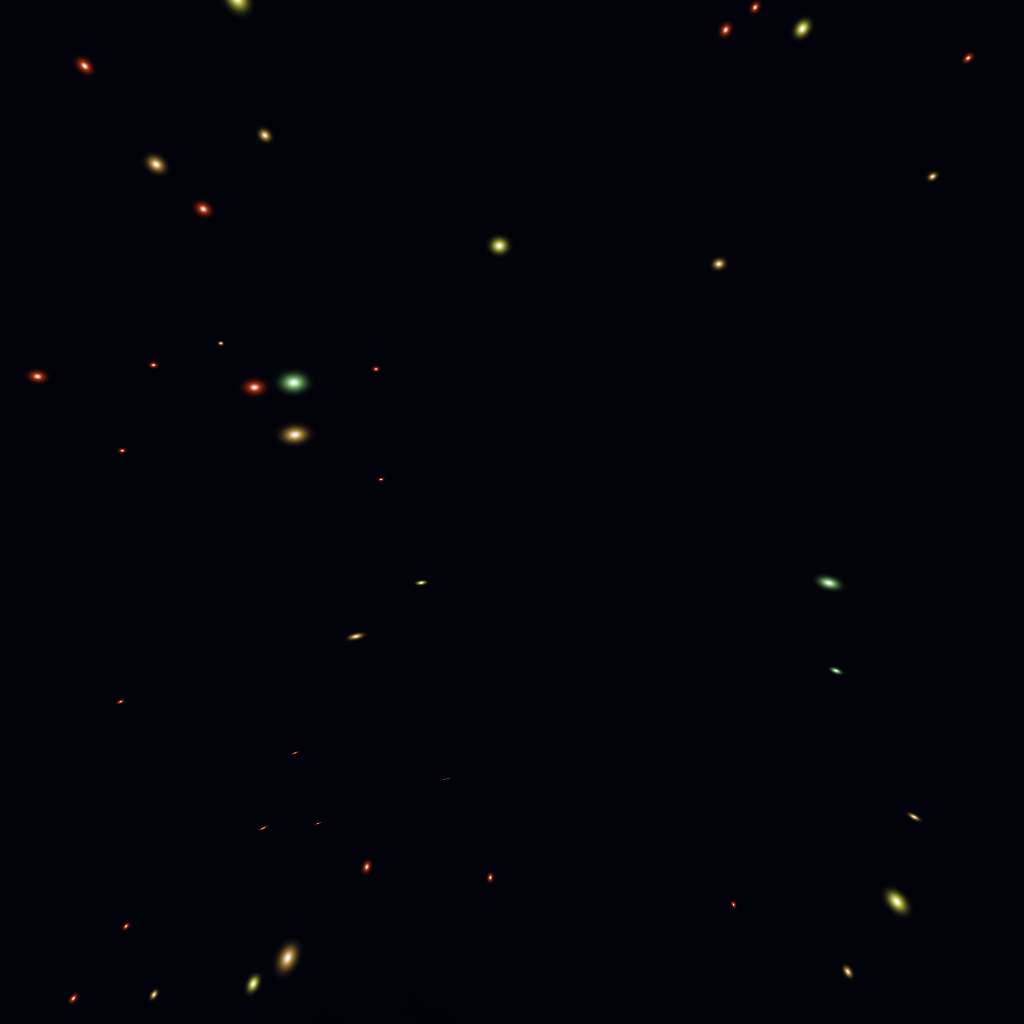
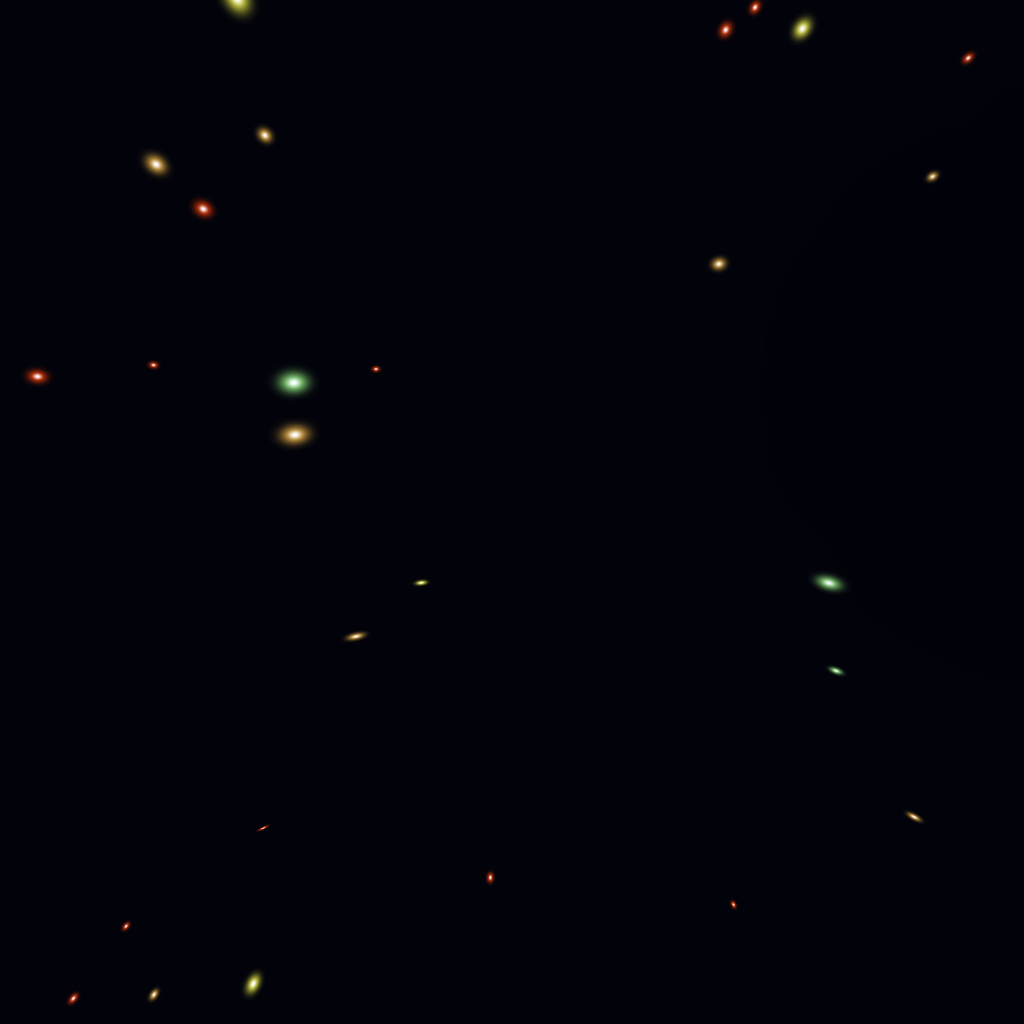
[fix] the baker now aims the billboards itself — elongated stars solved
Tonio: "I think you're pointing the stars at the galactic origin. That makes the
coreward render look pretty good but it's terrible for the others."

Exactly right, and the cause is that `facePoint` was correct and NOTHING CALLED
IT. The demo's bake button went straight to `bakeSkyboxCube`, which left every
particle system billboarding per face — so the only times it had ever run were
my own hand-typed evals. That is why my measurements kept saying "the quaternions
are set and they vary per particle" while the pictures said otherwise: I was
verifying a code path the product never executed.

The signature Tonio read off the image is the tell and worth remembering: left
to billboard, the face centred on the core looks nearly right and everything
further off-axis smears radially about the image centre, because origin-facing
and camera-facing agree in exactly one direction.

Fixed by moving the call inside `bakeSkyboxCube` — it now aims every
`<tosi-b3d-galaxy>` (or an explicit `subjects` list) at the camera position
before capture and restores in a `finally`. A guard that lives in documentation
is not a guard.

Also fixed a latent trap alongside it: `particle.position` is SPS-LOCAL while
the target handed in is WORLD. They coincide only while the galaxy sits
unrotated at the origin, so it was invisible and would have returned the moment
anyone tilted it. Converted once, up front.

Re-baked the shipped default at 1024 from 100k stars: round stars across the
[…]

diff --git a/src/skybox-baker.ts b/src/skybox-baker.ts
@@ -179,6 +179,16 @@ export interface SkyboxBakeOptions {
   size?: number
   /** Far plane for the capture. Must reach past whatever you are photographing. */
   maxZ?: number
+  /**
+   * Things that billboard and must be aimed at the camera POSITION before the
+   * capture — anything with a `facePoint(v)` method, which `b3d-galaxy` has.
+   *
+   * Defaults to every `<tosi-b3d-galaxy>` in the document, because forgetting
+   * this is not a small mistake: leave a subject billboarding and it re-orients
+   * to each face's view plane, so stars come out radially smeared and the faces
+   * disagree at their seams.
+   */
+  subjects?: Array<{ facePoint(t: BABYLON.Vector3 | null): void }>
 }
 
 /**
@@ -253,6 +263,26 @@ export async function bakeSkyboxCube(
   cam.minZ = 0.1
   cam.maxZ = (options.maxZ ?? 5000)
 
+  /*
+  AIM THE BILLBOARDS AT THE CAMERA — inside the baker, so it cannot be skipped.
+
+  `facePoint` existed for exactly this and NOTHING CALLED IT: the demo's bake
+  button went straight to this function, so every capture ran with the particle
+  systems still billboarding per face. Tonio, from the result: "I think you're
+  pointing the stars at the galactic origin. That makes the coreward render look
+  pretty good but it's terrible for the others" — which is the signature, since
+  a face centred on the core has its billboards nearly right and everything
+  further off-axis progressively worse.
+
+  A guard that lives in the documentation is not a guard. It belongs here.
+  */
+  const subjects =
+    options.subjects ??
+    (Array.from(
+      document.querySelectorAll('tosi-b3d-galaxy')
+    ) as unknown as Array<{ facePoint(t: BABYLON.Vector3 | null): void }>)
+  for (const s of subjects) s.facePoint?.(at)
+
   const previous = scene.activeCamera
   const out: BakedFace[] = []
   try {
@@ -289,6 +319,9 @@ export async function bakeSkyboxCube(
       out.push({ name: face.name, url })
     }
   } finally {
+    // Hand orientation back to the live camera, or the scene stays frozen
+    // facing a point the viewer has since left.
+    for (const s of subjects) s.facePoint?.(null)
     scene.activeCamera = previous
     cam.dispose()
   }

diff --git a/src/b3d-galaxy.ts b/src/b3d-galaxy.ts
@@ -469,8 +469,24 @@ export class B3dGalaxy extends B3dChild {
       */
       const upY = new BABYLON.Vector3(0, 1, 0)
       const upZ = new BABYLON.Vector3(0, 0, 1)
+      /*
+      THE TARGET MUST BE IN THE PARTICLES' OWN SPACE.
+
+      `particle.position` is SPS-LOCAL — relative to the system's mesh — while
+      the camera position handed in is WORLD. They coincide only while the
+      galaxy sits at the origin unrotated, which it usually does, so this was
+      invisible and would have come back the moment anyone moved or tilted it.
+      Converting once here costs nothing and removes the trap.
+      */
+      const mesh = sps.mesh
+      const local = target.clone()
+      if (mesh != null) {
+        mesh.computeWorldMatrix(true)
+        const inv = BABYLON.Matrix.Invert(mesh.getWorldMatrix())
+        BABYLON.Vector3.TransformCoordinatesToRef(target, inv, local)
+      }
       sps.updateParticle = (p) => {
-        const dir = target.subtract(p.position)
+        const dir = local.subtract(p.position)
         if (dir.lengthSquared() < 1e-8) return p
         dir.normalize()
         const ref = Math.abs(dir.y) > 0.98 ? upZ : upY

diff --git a/TODO.md b/TODO.md
@@ -777,7 +777,36 @@ auto` on flex children, stacking contexts. A tool must either implement CSS
 
 ## The queue
 
-[ ] ⚠ **OPEN BUG: baked stars render ELONGATED, including mid-face.** The
+[x] ~~**Baked stars render ELONGATED, including mid-face.**~~ **FIXED** — and
+the cause was embarrassingly simple once Tonio named it: *"I think you're
+pointing the stars at the galactic origin. That makes the coreward render look
+pretty good but it's terrible for the others."*
+
+`facePoint` was correct and **nothing called it**. The demo's bake button went
+straight to `bakeSkyboxCube`, which left the particle systems billboarding per
+face — so the only times it had ever been applied were my own hand-run evals,
+which is exactly why my measurements said "the quaternions are right" while the
+pictures said otherwise. I was verifying a code path the baker did not use.
+
+The signature Tonio read off the image is the giveaway, and worth keeping: with
+billboards left to their own devices the face centred on the core looks nearly
+right and everything further off-axis is progressively smeared, radially, about
+the image centre. Origin-facing and camera-facing agree in exactly one
+direction.
+
+Fixed by moving the call INSIDE `bakeSkyboxCube`, where it cannot be skipped,
+with restore in a `finally`. **A guard that lives in the documentation is not a
+guard.** Also fixed a latent trap while there: `particle.position` is SPS-LOCAL
+and the target is WORLD, which coincide only while the galaxy sits unrotated at
+the origin — converting once removes it.
+
+⚠ The lesson worth more than the fix: four rounds were spent proposing
+mechanisms (projection stretch, aspect, degenerate up vectors, missing
+`computeParticleRotation`) and *measuring* a path the product never executed.
+The question "is this code actually running in the failing case?" was never
+asked, and it was the whole answer.
+
+[ ] **Superseded notes on the elongation hunt (kept for the ruled-out list).** The
 skybox baker works end to end — six faces, right asymmetry, correct exposure —
 but every star and nebula comes out as an ellipse rather than a point, and
 Tonio's decisive observation is that it happens **in the MIDDLE of a face**, not
